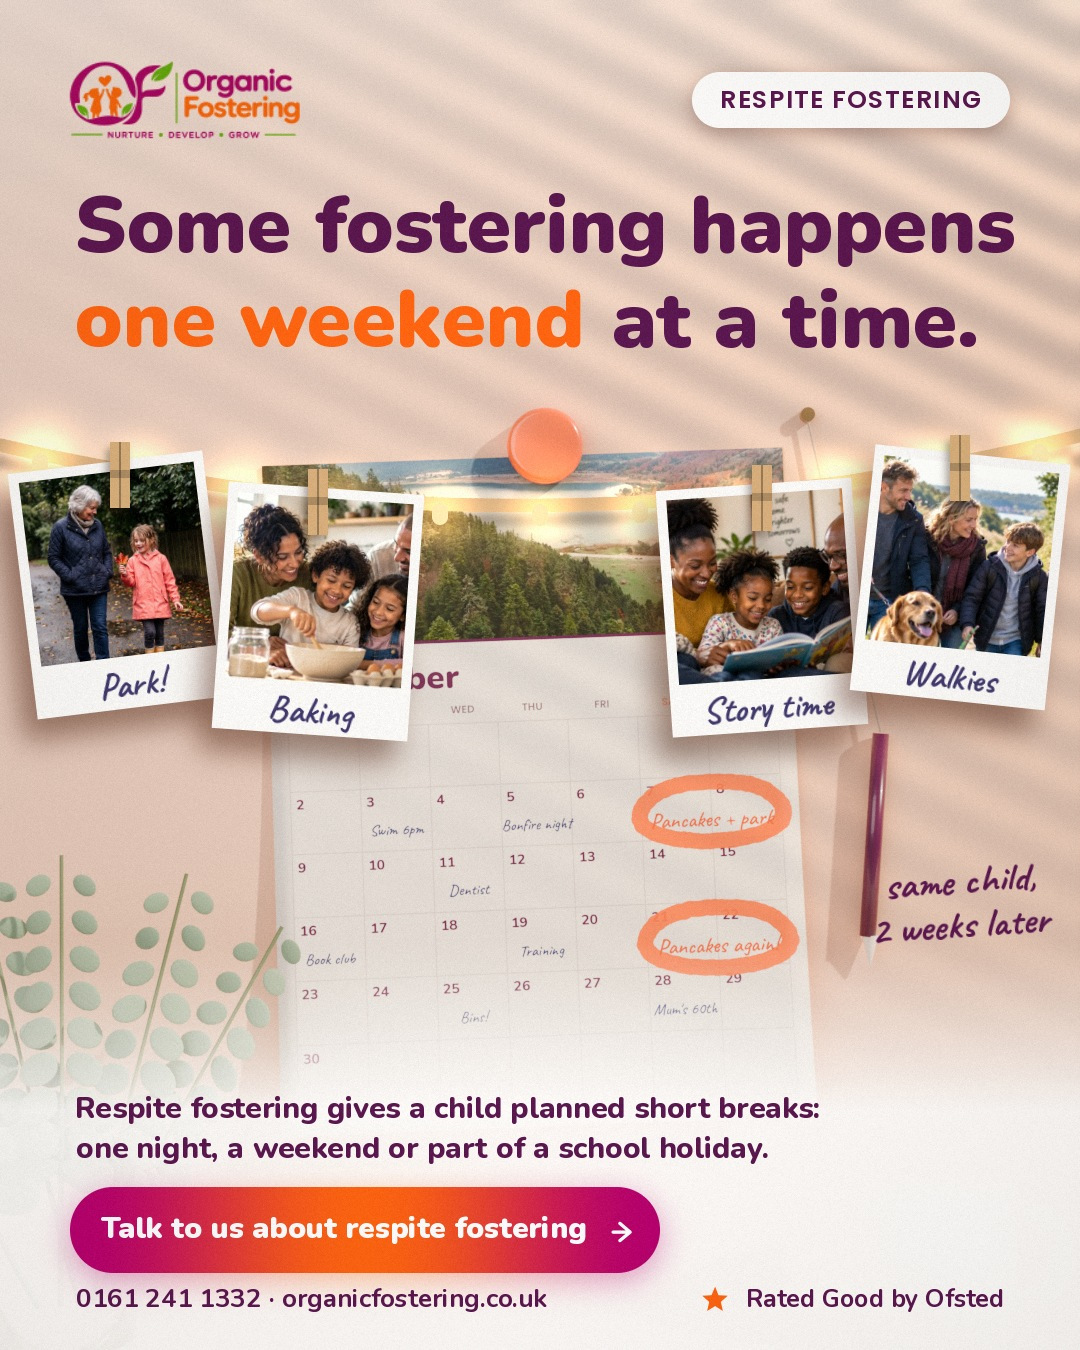
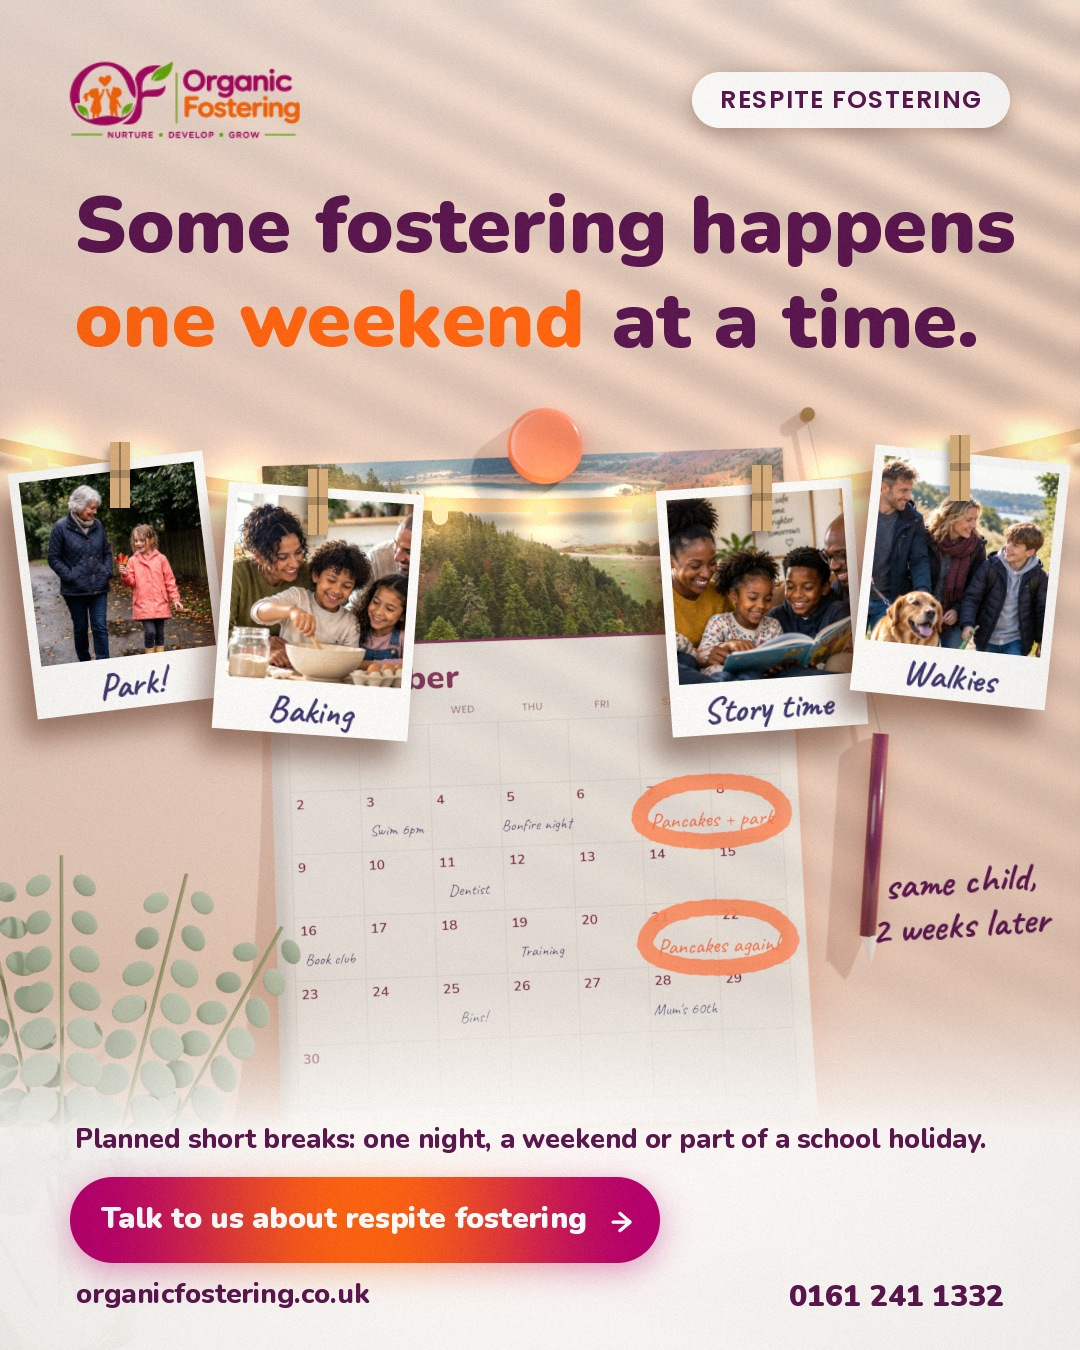
Respite post: one-line subline, web address left, phone right
Claude-Session: https://claude.ai/code/session_01MoBxzrbvJiqsBfWrfwy6zG

diff --git a/pipeline_respite/posts_respite.py b/pipeline_respite/posts_respite.py
@@ -115,6 +115,25 @@ def sign_off(c, y=1150, ink=PLUM, panel=True):
     draw(c, sp, 1010 - sp.shape[1] / 2, y + 190)
 
 
+def sign_off2(c, y=1150, ink=PLUM):
+    """Cleaner sign-off: one-line subline, button, web address left and phone number right."""
+    g = np.clip((YY - (y - 150)) / 150, 0, 1)[..., None] ** 1.2
+    c[:] = c * (1 - 0.94 * g) + np.array(CREAM, np.float32) * 0.94 * g
+    line = 'Planned short breaks: one night, a weekend or part of a school holiday.'
+    size = 32
+    while ts(line, N8, size, ink).shape[1] > PW - 140 and size > 22:
+        size -= 1
+    text(c, line, 70, y + 10, N8, size, ink)
+    bw, bh = 590, 86
+    b = F.grad_spr(bw, bh, bh / 2)
+    draw(c, blur_sprite(b, 16), 70 + bw / 2, y + 98, opacity=0.4)
+    draw(c, b, 70 + bw / 2, y + 90)
+    F.text_arrow(c, 'Talk to us about respite fostering', 70 + bw / 2, y + 90, size=30)
+    text(c, 'organicfostering.co.uk', 70, y + 165, N8, 28, ink)
+    sp = ts('0161 241 1332', N9, 30, ink)
+    draw(c, sp, 1010 - sp.shape[1] / 2, y + 165)
+
+
 def hand(c, s, x, y, size, col, rot=0):
     sp = solid(_wmask(s, HAND, size), col)
     draw(c, sp, x, y, rot=rot)
@@ -347,7 +366,7 @@ def option_d():
     headline(c, y=230)
     hand(c, 'same child,', 960, 880, 40, PLUM, rot=-4)
     hand(c, '2 weeks later', 960, 924, 40, PLUM, rot=-4)
-    sign_off(c, 1110)
+    sign_off2(c, 1130)
     return vignette(grain(c, 0.01), 0.1)
 
 
